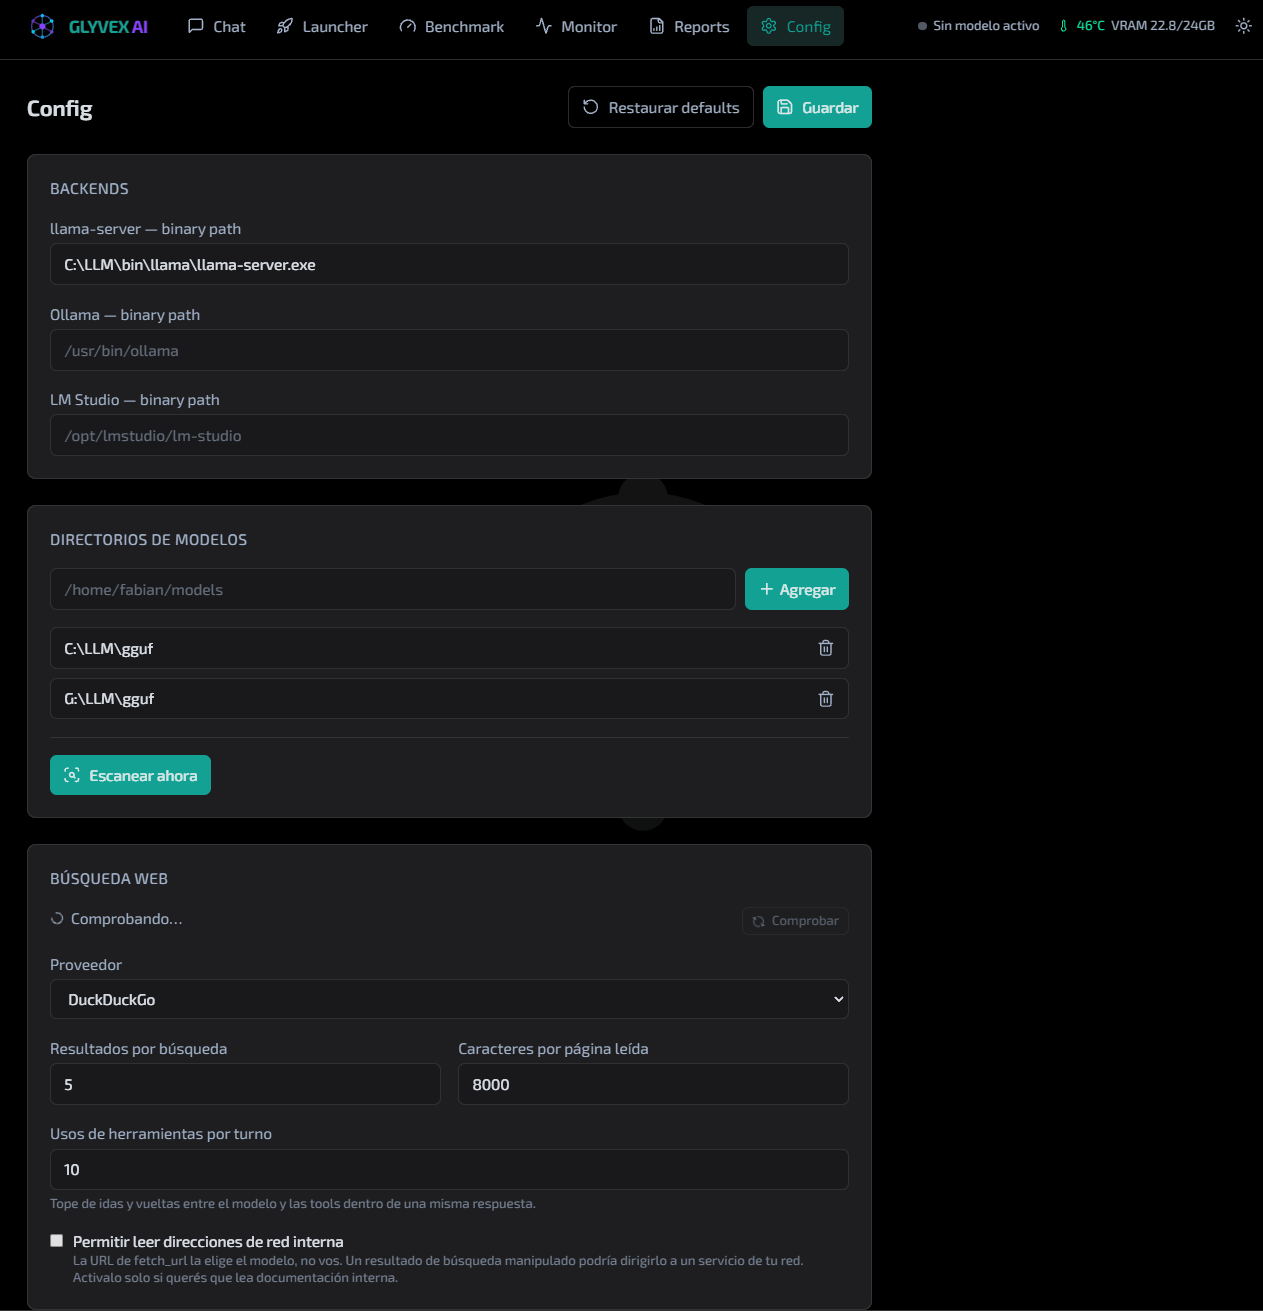
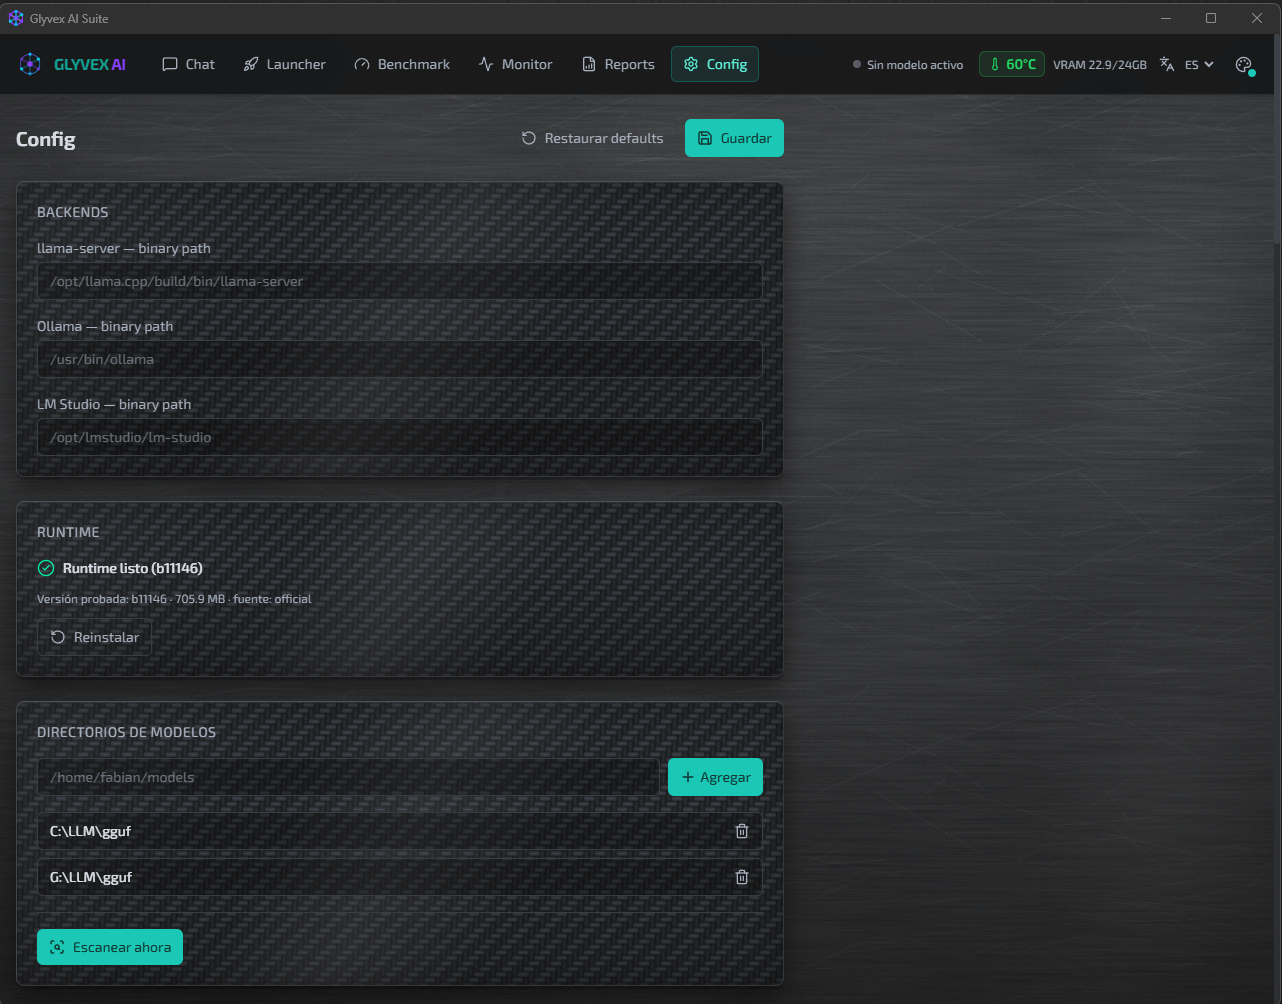
docs: capturas v0.7.1 + instalador (6 pasos) y SmartScreen en READMEs EN/ES

diff --git a/README.es.md b/README.es.md
@@ -24,11 +24,31 @@ de forma segura (ver sección de Módulos).
 
 | | |
 |---|---|
-| ![Chat — conversación con streaming y métricas en vivo](screenshots/chat.png)<br><sub>Chat: streaming, razonamiento y métricas en vivo (t/s, TTFT)</sub> | ![Launcher — modelos detectados](screenshots/launcher-modelos-detectados.png)<br><sub>Launcher: inventario de modelos agrupado por carpeta</sub> |
-| ![Launcher — opciones de lanzamiento](screenshots/launcher-opciones.png)<br><sub>Launcher: opciones de lanzamiento</sub> | ![Launcher — opciones avanzadas](screenshots/launcher-opciones-avanzadas.png)<br><sub>Launcher: opciones avanzadas</sub> |
-| ![Launcher — opciones avanzadas (2)](screenshots/launcher-opciones-avanzadas-2.png)<br><sub>Launcher: opciones avanzadas (MTP, contexto)</sub> | ![Launcher — backends en línea](screenshots/launcher-online.png)<br><sub>Launcher: backends en línea</sub> |
+| ![Chat — streaming y métricas en vivo](screenshots/chat.png)<br><sub>Chat: streaming, razonamiento y métricas en vivo (t/s, TTFT)</sub> | ![Launcher — inventario de modelos](screenshots/launcher.png)<br><sub>Launcher: inventario de modelos, runtime b11146 listo</sub> |
+| ![Launcher — modo avanzado, todos los paneles](screenshots/launcher-avanzado-general.png)<br><sub>Modo Avanzado: todos los paneles de control del lanzamiento</sub> | ![Launcher — contexto y aceleración](screenshots/launcher-avanzado-contexto.png)<br><sub>Contexto hasta 64K, aceleración GPU y VRAM estimada</sub> |
+| ![Launcher — MTP, visión y LoRA](screenshots/launcher-avanzado-modulos.png)<br><sub>MTP especulativo, mmproj, LoRA y razonamiento</sub> | ![Launcher — modelo en ejecución](screenshots/launcher-online.png)<br><sub>En ejecución: t/s, MTP 70.5%, cache 86.6% y log en vivo</sub> |
 | ![Benchmark — resultados](screenshots/benchmark.png)<br><sub>Benchmark: resultados del run</sub> | ![Monitor — GPU y vitales](screenshots/monitor.png)<br><sub>Monitor: GPU, CPU y vitales del LLM server</sub> |
-| ![Reports — historial](screenshots/reports.png)<br><sub>Reports: historial de benchmarks</sub> | ![Config — configuración](screenshots/config.png)<br><sub>Config: configuración general</sub> |
+| ![Reports — historial](screenshots/reports.png)<br><sub>Reports: historial de benchmarks</sub> | ![Config — configuración](screenshots/config.png)<br><sub>Config: backends, runtime embebido y carpetas de modelos</sub> |
+
+### Instalador (6 pasos)
+
+Un instalador clásico de Windows: elegís la carpeta y listo.
+
+| | |
+|---|---|
+| ![Instalador — bienvenida](screenshots/instalador-1.png)<br><sub>Paso 1: asistente de instalación</sub> | ![Instalador — carpeta de destino](screenshots/instalador-2.png)<br><sub>Paso 2: elegís la carpeta de destino</sub> |
+| ![Instalador — confirmar instalación](screenshots/instalador-3.png)<br><sub>Paso 3: confirmar instalación</sub> | ![Instalador — instalando](screenshots/instalador-4.png)<br><sub>Paso 4: instalando componentes</sub> |
+| ![Instalador — finalizando](screenshots/instalador-5.png)<br><sub>Paso 5: finalizando</sub> | ![Instalador — completado](screenshots/instalador-6.png)<br><sub>Paso 6: instalado, listo para ejecutar</sub> |
+
+### Aviso de Windows SmartScreen
+
+Al no firmar el instalador NSIS, Windows SmartScreen mostrará el aviso
+*"Windows protegió tu PC"*. Es esperado y seguro: hacé clic en
+**Más información** → **Ejecutar de todas formas**.
+
+| | |
+|---|---|
+| ![SmartScreen — aviso de Windows](screenshots/smartscreen-1.png)<br><sub>Windows muestra el aviso de SmartScreen</sub> | ![SmartScreen — ejecutar de todas formas](screenshots/smartscreen-2.png)<br><sub>Más información → Ejecutar de todas formas</sub> |
 
 ## Requisitos
 

diff --git a/README.md b/README.md
@@ -24,11 +24,31 @@ Without an NVIDIA GPU, the Monitor and the Launcher degrade gracefully
 
 | | |
 |---|---|
-| ![Chat — conversation with streaming and live metrics](screenshots/chat.png)<br><sub>Chat: streaming, reasoning and live metrics (t/s, TTFT)</sub> | ![Launcher — detected models](screenshots/launcher-modelos-detectados.png)<br><sub>Launcher: model inventory grouped by folder</sub> |
-| ![Launcher — launch options](screenshots/launcher-opciones.png)<br><sub>Launcher: launch options</sub> | ![Launcher — advanced options](screenshots/launcher-opciones-avanzadas.png)<br><sub>Launcher: advanced options</sub> |
-| ![Launcher — advanced options (2)](screenshots/launcher-opciones-avanzadas-2.png)<br><sub>Launcher: advanced options (MTP, context)</sub> | ![Launcher — online backends](screenshots/launcher-online.png)<br><sub>Launcher: online backends</sub> |
+| ![Chat — streaming and live metrics](screenshots/chat.png)<br><sub>Chat: streaming, reasoning and live metrics (t/s, TTFT)</sub> | ![Launcher — model inventory](screenshots/launcher.png)<br><sub>Launcher: model inventory, b11146 runtime ready</sub> |
+| ![Launcher — advanced mode, all panels](screenshots/launcher-avanzado-general.png)<br><sub>Advanced mode: all launch control panels</sub> | ![Launcher — context and acceleration](screenshots/launcher-avanzado-contexto.png)<br><sub>Context up to 64K, GPU acceleration and estimated VRAM</sub> |
+| ![Launcher — MTP, vision and LoRA](screenshots/launcher-avanzado-modulos.png)<br><sub>Speculative MTP, mmproj, LoRA and reasoning</sub> | ![Launcher — model running](screenshots/launcher-online.png)<br><sub>Running: t/s, MTP 70.5%, cache 86.6% and live log</sub> |
 | ![Benchmark — results](screenshots/benchmark.png)<br><sub>Benchmark: run results</sub> | ![Monitor — GPU and vitals](screenshots/monitor.png)<br><sub>Monitor: GPU, CPU and LLM server vitals</sub> |
-| ![Reports — history](screenshots/reports.png)<br><sub>Reports: benchmark history</sub> | ![Config — settings](screenshots/config.png)<br><sub>Config: general settings</sub> |
+| ![Reports — history](screenshots/reports.png)<br><sub>Reports: benchmark history</sub> | ![Config — settings](screenshots/config.png)<br><sub>Config: backends, embedded runtime and model folders</sub> |
+
+### Installer (6 steps)
+
+A classic Windows installer: pick the folder and you're done.
+
+| | |
+|---|---|
+| ![Installer — welcome](screenshots/instalador-1.png)<br><sub>Step 1: installation wizard</sub> | ![Installer — destination folder](screenshots/instalador-2.png)<br><sub>Step 2: pick the destination folder</sub> |
+| ![Installer — confirm installation](screenshots/instalador-3.png)<br><sub>Step 3: confirm installation</sub> | ![Installer — installing](screenshots/instalador-4.png)<br><sub>Step 4: installing components</sub> |
+| ![Installer — finishing](screenshots/instalador-5.png)<br><sub>Step 5: finishing</sub> | ![Installer — completed](screenshots/instalador-6.png)<br><sub>Step 6: installed, ready to run</sub> |
+
+### Windows SmartScreen notice
+
+Since the NSIS installer is unsigned, Windows SmartScreen will show the
+*"Windows protected your PC"* warning. This is expected and safe: click
+**More info** → **Run anyway**.
+
+| | |
+|---|---|
+| ![SmartScreen — Windows warning](screenshots/smartscreen-1.png)<br><sub>Windows shows the SmartScreen warning</sub> | ![SmartScreen — run anyway](screenshots/smartscreen-2.png)<br><sub>More info → Run anyway</sub> |
 
 ## Requirements
 
